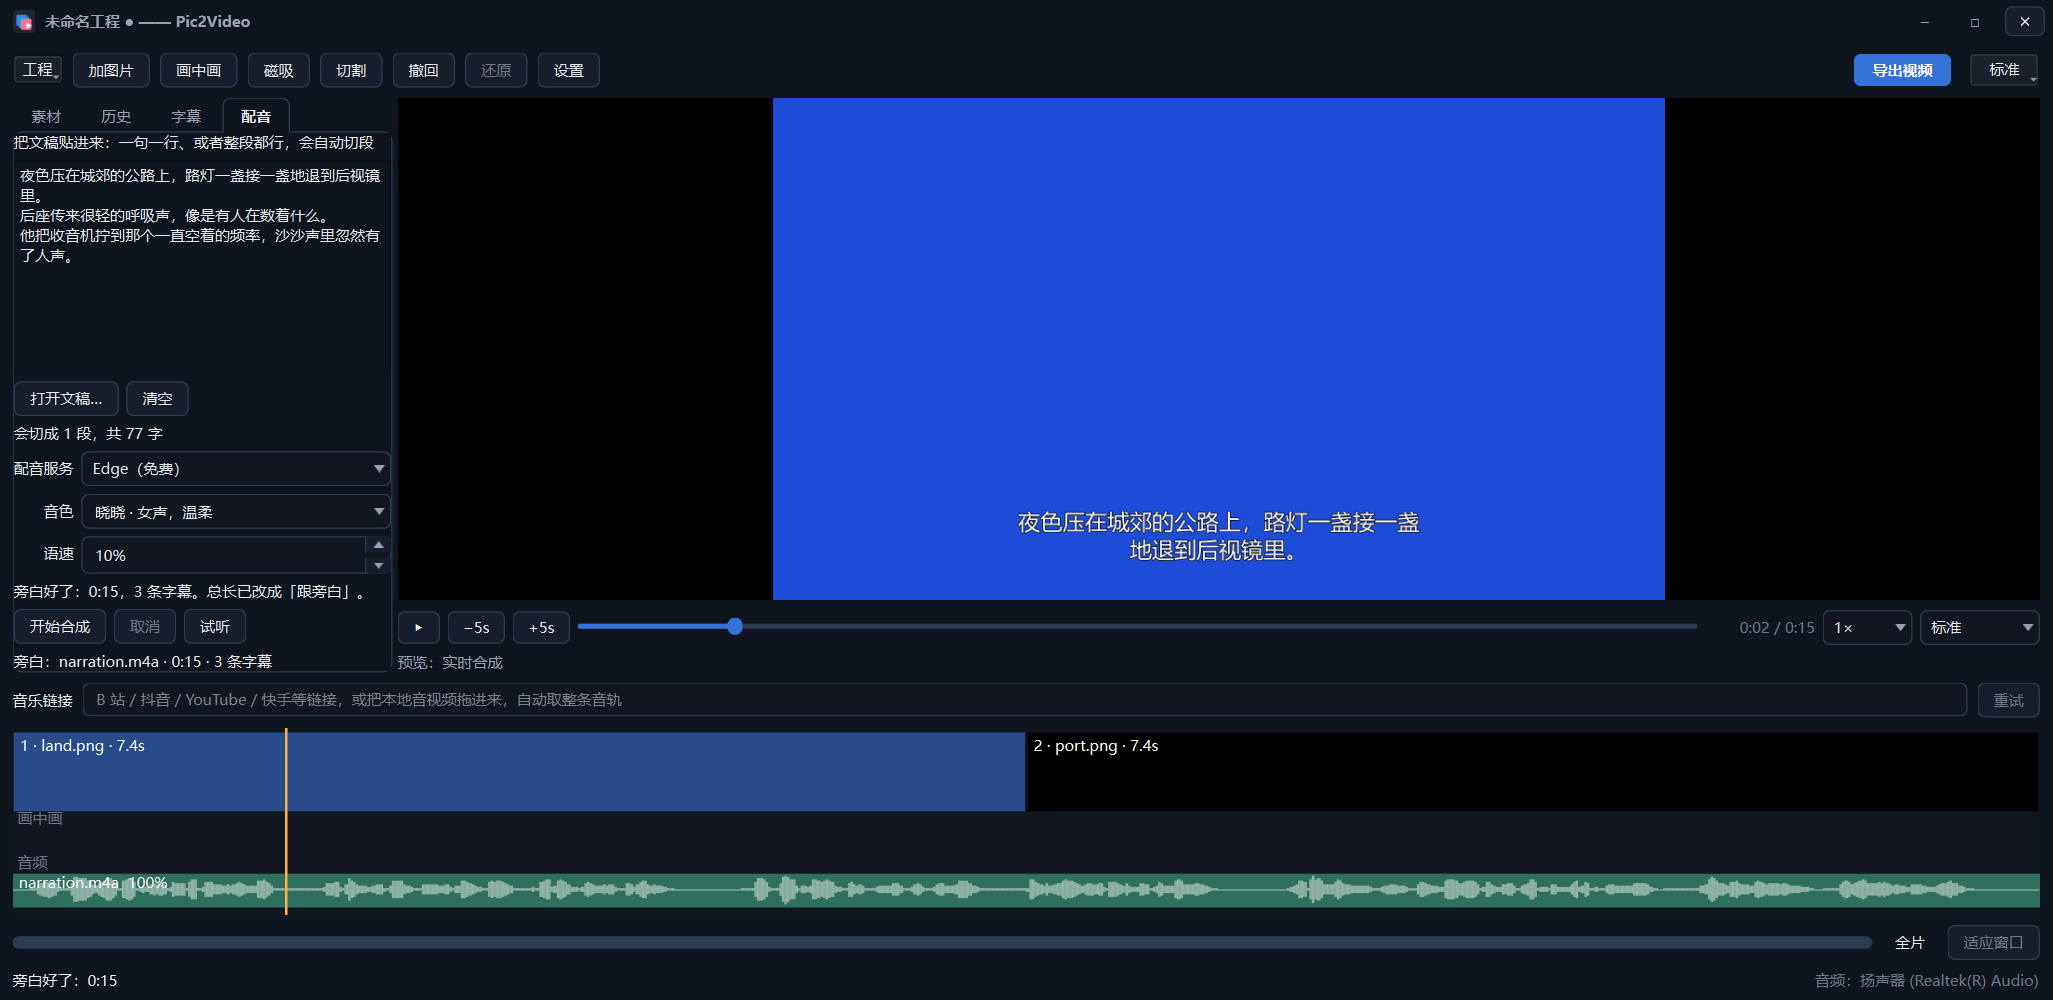
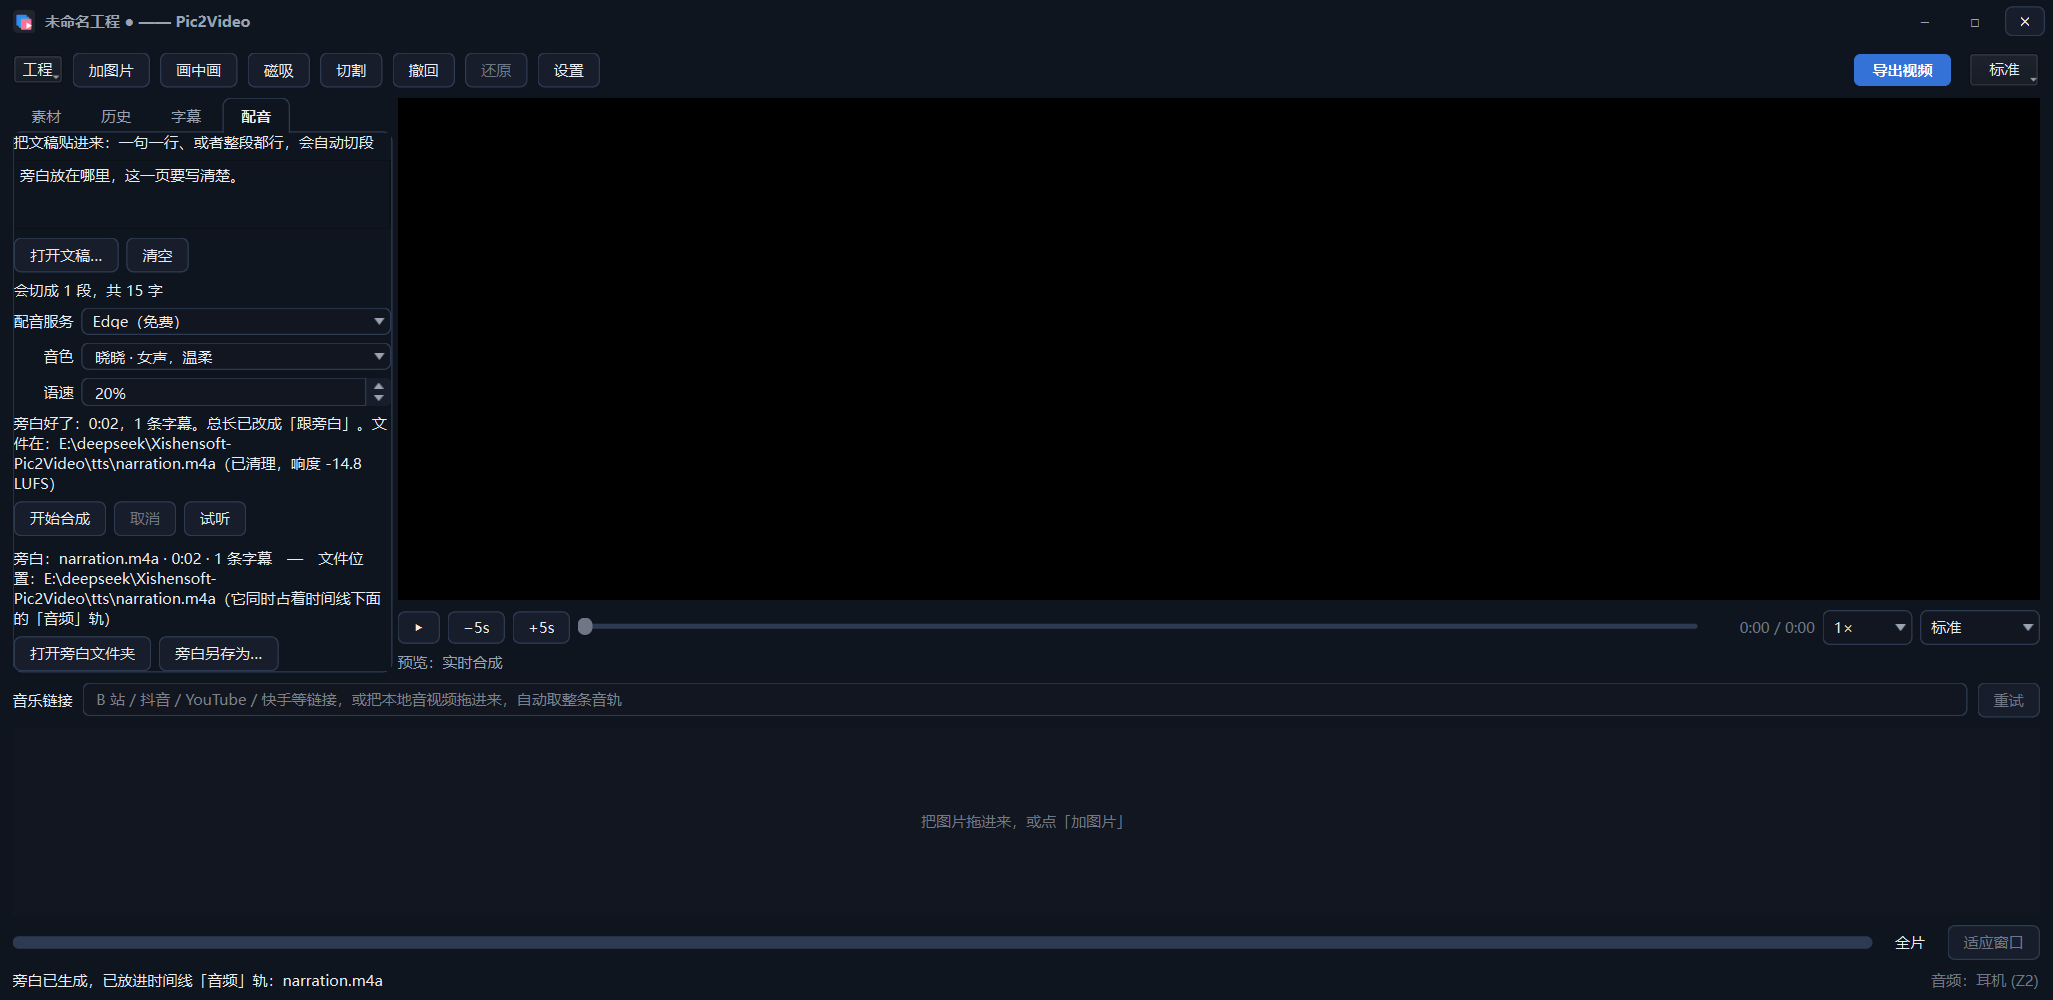
feat: 配音页写清旁白文件在哪，并能打开文件夹 / 另存
- 旁白固定写到 tts/narration.m4a（不再埋在按内容哈希的目录里）
- 配音页底部显示完整路径，新增「打开旁白文件夹」与「旁白另存为…」
  （另存后工程改用你选的那份，状态栏给出新路径）
- 合成完成的状态写清「已放进时间线音频轨」+ 文件位置
- 空旁白时说明合成后会去音频轨、画面会盖字幕
- 测试块 82 + 词条；README 配音节补「旁白文件在哪」

diff --git a/pic2video.py b/pic2video.py
@@ -8152,9 +8152,26 @@ def run_gui() -> int:
                 tr("勾上以后字幕会写成「主讲：……」，不勾只写台词"))
             vform.addRow(tr("字幕前缀"), self.chk_tts_prefix)
             self._show_dialogue(False)
+            vvp.addSpacing(4)
             self.lbl_narration = QLabel(tr("还没有旁白"))
             self.lbl_narration.setWordWrap(True)
+            self.lbl_narration.setTextInteractionFlags(
+                Qt.TextInteractionFlag.TextSelectableByMouse)
             vvp.addWidget(self.lbl_narration)
+            nrow = QHBoxLayout()
+            self.btn_narr_open = QPushButton(tr("打开旁白文件夹"))
+            self.btn_narr_open.setEnabled(False)
+            self.btn_narr_open.setToolTip(tr("在资源管理器里定位这个旁白文件"))
+            self.btn_narr_open.clicked.connect(self.on_open_narration)
+            self.btn_narr_save = QPushButton(tr("旁白另存为…"))
+            self.btn_narr_save.setEnabled(False)
+            self.btn_narr_save.setToolTip(
+                tr("把旁白存到你自己选的地方，工程跟着改用这份"))
+            self.btn_narr_save.clicked.connect(self.on_save_narration_as)
+            nrow.addWidget(self.btn_narr_open)
+            nrow.addWidget(self.btn_narr_save)
+            nrow.addStretch(1)
+            vvp.addLayout(nrow)
             self.left_tabs.addTab(voice_page, tr("配音"))
             split.addWidget(self.left_tabs)
 
@@ -8758,15 +8775,55 @@ def run_gui() -> int:
             p = self.project
             if p.narration_path:
                 self.lbl_narration.setText(tr(
-                    "旁白：{name} · {dur} · {n} 条字幕",
+                    "旁白：{name} · {dur} · {n} 条字幕　—　文件位置：{path}（它同时占着时间线下面的「音频」轨）",
                     name=os.path.basename(p.narration_path),
-                    dur=human_time(p.narration_dur), n=len(p.cues)))
+                    dur=human_time(p.narration_dur), n=len(p.cues),
+                    path=p.narration_path))
             else:
-                self.lbl_narration.setText(tr("还没有旁白"))
+                self.lbl_narration.setText(tr(
+                    "还没有旁白。合成完它会自动放进时间线的「音频」轨，画面上也会盖字幕。"))
+            self.btn_narr_open.setEnabled(bool(p.narration_path))
+            self.btn_narr_save.setEnabled(bool(p.narration_path))
             busy = self._tts_running()
             self.btn_tts_start.setEnabled(bool(self._script_text()) and not busy)
             self.btn_tts_cancel.setEnabled(busy)
             self.btn_tts_audition.setEnabled(bool(self._script_text()) and not busy)
+
+        def on_open_narration(self):
+            path = str(self.project.narration_path or "")
+            if not path:
+                return
+            try:
+                subprocess.Popen(["explorer", "/select,", os.path.normpath(path)])
+            except OSError:
+                pass
+
+        def on_save_narration_as(self):
+            p = self.project
+            src = str(p.narration_path or "")
+            if not src or not os.path.exists(src):
+                MsgBox.warn(self, tr("还没有旁白"),
+                            tr("先在上面合成一段旁白，再来另存。"))
+                return
+            stem = os.path.splitext(os.path.basename(self._project_name()))[0]
+            default = os.path.join(self._project_dir() or "",
+                                   (stem or "旁白") + "-旁白.m4a")
+            picked = FileDialog.get_save_file(
+                self, tr("旁白另存为…"), default,
+                tr("音频 (*.m4a)"), suffix="m4a")
+            if not picked:
+                return
+            try:
+                shutil.copy2(src, picked)
+            except OSError as exc:
+                MsgBox.warn(self, tr("旁白没存下去"), str(exc))
+                return
+            set_narration(self.project, picked, float(p.narration_dur),
+                          [dict(c) for c in p.cues])
+            self._refresh_all()
+            self._mark_dirty()
+            self._history_push(tr("旁白另存"))
+            self.lbl_status.setText(tr("旁白已存到：{path}", path=picked))
 
         def on_script_changed(self):
             text = self._script_text()
@@ -8950,9 +9007,12 @@ def run_gui() -> int:
                 note = tr("（已清理，响度 {lu} LUFS）",
                           lu="%.1f" % float(res.get("loudness") or 0.0))
             self.lbl_tts_status.setText(tr(
-                "旁白好了：{dur}，{n} 条字幕。总长已改成「跟旁白」。",
-                dur=human_time(dur), n=len(self.project.cues)) + note)
-            self.lbl_status.setText(tr("旁白好了：{dur}", dur=human_time(dur)))
+                "旁白好了：{dur}，{n} 条字幕。总长已改成「跟旁白」。文件在：{path}",
+                dur=human_time(dur), n=len(self.project.cues),
+                path=path) + note)
+            self.lbl_status.setText(tr(
+                "旁白已生成，已放进时间线「音频」轨：{name}",
+                name=os.path.basename(path)))
 
         def _play_audition(self, path):
             if not path or not os.path.exists(path):

diff --git a/i18n.py b/i18n.py
@@ -3035,3 +3035,59 @@ _TR_EXTRA51 = [
 for _k, _tw, _en, _ja, _ko in _TR_EXTRA51:
     for _lang, _v in zip(("zh-TW", "en", "ja", "ko"), (_tw, _en, _ja, _ko)):
         TR[_lang].setdefault(_k, _v)
+
+_TR_EXTRA52 = [
+    ("打开旁白文件夹", "開啟旁白資料夾", "Open narration folder",
+     "ナレーションのフォルダーを開く", "나레이션 폴더 열기"),
+    ("在资源管理器里定位这个旁白文件", "在檔案總管裡定位這個旁白檔",
+     "Show this narration file in Explorer",
+     "エクスプローラーでこのナレーションを表示", "탐색기에서 이 나레이션 파일 보기"),
+    ("旁白另存为…", "旁白另存新檔…", "Save narration as…",
+     "ナレーションを別名で保存…", "나레이션 다른 이름으로 저장…"),
+    ("把旁白存到你自己选的地方，工程跟着改用这份",
+     "把旁白存到你選的地方，專案跟著改用這份",
+     "Save the narration where you like; the project switches to that copy",
+     "ナレーションを好きな場所に保存し、プロジェクトもそのファイルを使います",
+     "나레이션을 원하는 곳에 저장하고 프로젝트도 그 파일을 씁니다"),
+    ("旁白：{name} · {dur} · {n} 条字幕　—　文件位置：{path}（它同时占着时间线下面的「音频」轨）",
+     "旁白：{name} · {dur} · {n} 條字幕　—　檔案位置：{path}（它同時佔著時間軸下方的「音訊」軌）",
+     "Narration: {name} · {dur} · {n} cues — file: {path} (it also sits on the audio track below the timeline)",
+     "ナレーション：{name} · {dur} · {n} 字幕　—　ファイル：{path}（タイムライン下の「音声」トラックにも入っています）",
+     "나레이션: {name} · {dur} · {n}개 자막 — 파일: {path} (타임라인 아래 「오디오」 트랙에도 있습니다)"),
+    ("还没有旁白。合成完它会自动放进时间线的「音频」轨，画面上也会盖字幕。",
+     "還沒有旁白。合成完會自動放進時間軸的「音訊」軌，畫面上也會疊字幕。",
+     "No narration yet. After synthesis it lands on the audio track below the timeline, with cues burned over the picture.",
+     "ナレーションはまだありません。合成するとタイムライン下の「音声」トラックに入り、画面にも字幕が乗ります。",
+     "나레이션이 아직 없습니다. 합성하면 타임라인 아래 「오디오」 트랙에 들어가고 화면에도 자막이 표시됩니다."),
+    ("音频 (*.m4a)", "音訊 (*.m4a)", "Audio (*.m4a)", "音声 (*.m4a)", "오디오 (*.m4a)"),
+    ("先在上面合成一段旁白，再来另存。",
+     "先在上面合成一段旁白，再來另存。",
+     "Synthesize a narration first, then save a copy.",
+     "先にナレーションを合成してから別名保存してください。",
+     "먼저 나레이션을 합성한 뒤 다른 이름으로 저장하세요."),
+    ("旁白没存下去", "旁白沒有存成功", "Could not save the narration",
+     "ナレーションを保存できませんでした", "나레이션을 저장하지 못했습니다"),
+    ("旁白另存", "旁白另存", "Save narration copy",
+     "ナレーションを別名保存", "나레이션 다른 이름으로 저장"),
+    ("旁白已存到：{path}", "旁白已存到：{path}", "Narration saved to: {path}",
+     "ナレーションを保存しました：{path}", "나레이션 저장 위치: {path}"),
+    ("旁白已生成，已放进时间线「音频」轨：{name}",
+     "旁白已生成，已放進時間軸「音訊」軌：{name}",
+     "Narration ready on the audio track: {name}",
+     "ナレーション完成、タイムラインの「音声」トラックに入れました：{name}",
+     "나레이션 생성 완료, 타임라인 「오디오」 트랙에 넣었습니다: {name}"),
+]
+for _k, _tw, _en, _ja, _ko in _TR_EXTRA52:
+    for _lang, _v in zip(("zh-TW", "en", "ja", "ko"), (_tw, _en, _ja, _ko)):
+        TR[_lang].setdefault(_k, _v)
+
+_TR_EXTRA53 = [
+    ("旁白好了：{dur}，{n} 条字幕。总长已改成「跟旁白」。文件在：{path}",
+     "旁白好了：{dur}，{n} 條字幕。總長已改成「跟旁白」。檔案在：{path}",
+     "Narration ready: {dur}, {n} cues. Length is now 'follow narration'. File: {path}",
+     "ナレーション完成：{dur}、{n} 字幕。「ナレーションに合わせる」に変更しました。ファイル：{path}",
+     "나레이션 완료: {dur}, 자막 {n}개. 길이를 「나레이션 따라가기」로 바꿨습니다. 파일: {path}"),
+]
+for _k, _tw, _en, _ja, _ko in _TR_EXTRA53:
+    for _lang, _v in zip(("zh-TW", "en", "ja", "ko"), (_tw, _en, _ja, _ko)):
+        TR[_lang].setdefault(_k, _v)

diff --git a/tests/test_project.py b/tests/test_project.py
@@ -3957,6 +3957,38 @@ check("引擎音色表 OpenAI 6 个", len(p.tts_engine.TTS_VOICES["openai"]) == 
 check("界面音色表就是引擎那份",
       p.TTS_VOICES is p.tts_engine.TTS_VOICES)
 
+
+
+# ---------------- 82 旁白位置：写清楚 + 能打开 / 另存
+for _needle, _why in (
+        ('self.btn_narr_open = QPushButton(tr("打开旁白文件夹"))',
+         "配音页有打开文件夹按钮"),
+        ('self.btn_narr_save = QPushButton(tr("旁白另存为…"))',
+         "配音页有另存按钮"),
+        ('self.btn_narr_open.clicked.connect(self.on_open_narration)',
+         "打开按钮接线"),
+        ('self.btn_narr_save.clicked.connect(self.on_save_narration_as)',
+         "另存按钮接线"),
+        ('subprocess.Popen(["explorer", "/select,", os.path.normpath(path)])',
+         "打开时定位到文件"),
+        ('set_narration(self.project, picked, float(p.narration_dur),',
+         "另存后工程改用新文件"),
+        ('path=p.narration_path))', "界面写出完整文件路径"),
+        ('"旁白已生成，已放进时间线「音频」轨：{name}"',
+         "状态栏说清旁白进了音频轨"),
+        ('self.lbl_narration.setTextInteractionFlags(',
+         "旁白路径能选中复制")):
+    check(_why, _needle in _src, _needle)
+_eng_narr = open(p.tts_engine.__file__, encoding="utf-8").read()
+check("旁白固定写在 tts/narration.m4a",
+      'out_path = os.path.join(cache_dir(root), "narration.m4a")' in _eng_narr)
+for _key in ("打开旁白文件夹", "旁白另存为…", "把旁白存到你自己选的地方，工程跟着改用这份",
+             "旁白没存下去", "旁白已存到：{path}",
+             "旁白已生成，已放进时间线「音频」轨：{name}", "音频 (*.m4a)"):
+    check("旁白位置词条四语齐 " + _key,
+          all(_i18n[_l].get(_key) for _l in ("zh-TW", "en", "ja", "ko")),
+          {_l: _i18n[_l].get(_key) for _l in ("zh-TW", "en", "ja", "ko")})
+
 print()
 print("RESULT:", "ALL PASS" if not fails else f"{len(fails)} FAIL -> {fails}")
 sys.exit(1 if fails else 0)

diff --git a/tts_engine.py b/tts_engine.py
@@ -839,7 +839,9 @@ def synth_plan(plan, *, provider: str = "edge", voice: str = "", rate: int = 0,
                 on_progress(i + 1, total, cached)
             except Exception:  # noqa: BLE001
                 pass
-    out_path = os.path.join(work_dir, "narration.m4a")
+    # 合成结果固定放在 tts/ 根下，名字一眼看得懂，别埋进按内容起的哈希目录里
+    os.makedirs(cache_dir(root), exist_ok=True)
+    out_path = os.path.join(cache_dir(root), "narration.m4a")
     merge_segments(audio_paths, out_path, gap=gap)
     total_dur = probe_duration(out_path) or max(0.0, offset - gap)
     cues = normalize_cues(cues, total_dur)

diff --git a/README.md b/README.md
@@ -75,6 +75,7 @@
 - **音色**：默认 Edge（免费、不用 key），中文音色 14 个（普通话 / 东北话 / 陕西话 / 台湾 / 粤语，男女都有）；语速 -50%～+100%。想先听听合不合适，点「试听」只合成第一段。
 - **合成**：后台逐段跑，进度条显示「已完成 / 总段数」，随时能点「取消」，单段失败可以重跑。每段结果按「文本 + 服务商 + 音色 + 语速」缓存到工具目录（`tts/`），中途断开再点一次会跳过已经合成好的段。
 - **接上之后**：旁白进时间线的音频轨（带波形），句级字幕进「字幕」页；节奏自动切到「跟旁白」，图片按旁白长度铺满，总长就是旁白长度。字幕想拿去别处用，点「字幕」页的「另存 .srt…」。
+- **旁白文件在哪**：配音页最下面直接写出完整路径（工具目录下的 `tts/narration.m4a`），旁边的「打开旁白文件夹」会在资源管理器里定位到它；想把它放到自己指定的地方，点「旁白另存为…」，存完工程就改用你选的那份。
 - **合成完顺手清一下**（默认开，设置 → 配音可关）：剪掉段首段尾多余静音、削掉开头的高频咔哒和低频噗声，再按 EBU R128 把整条旁白拉到 **-14 LUFS**（约等于平台标准的“正常音量”），最后限幅兜底。剪掉的那点静音会让字幕跟着一起往前挪，不会错位。状态栏会写「已清理，响度 -14.0 LUFS」。
 - **字幕折行**：一行最多 18 个字、最多两行，超长的句子自动拆成两条，不会一行铺满整个屏幕。
 - **Gemini**：在设置 → 配音里填自己的 Gemini key 就能用（音色 Kore / Puck / Aoede / Charon / Fenrir / Leda，也能多说话人）。Gemini 不给时间戳，这里会拿同一段文本悄悄跑一遍免费的 Edge 当节奏模板，再把字幕按实际时长缩放；Edge 也连不上时才退回按字数摊。它没有语速参数，语速框会自动变灰——想快就改文稿。
